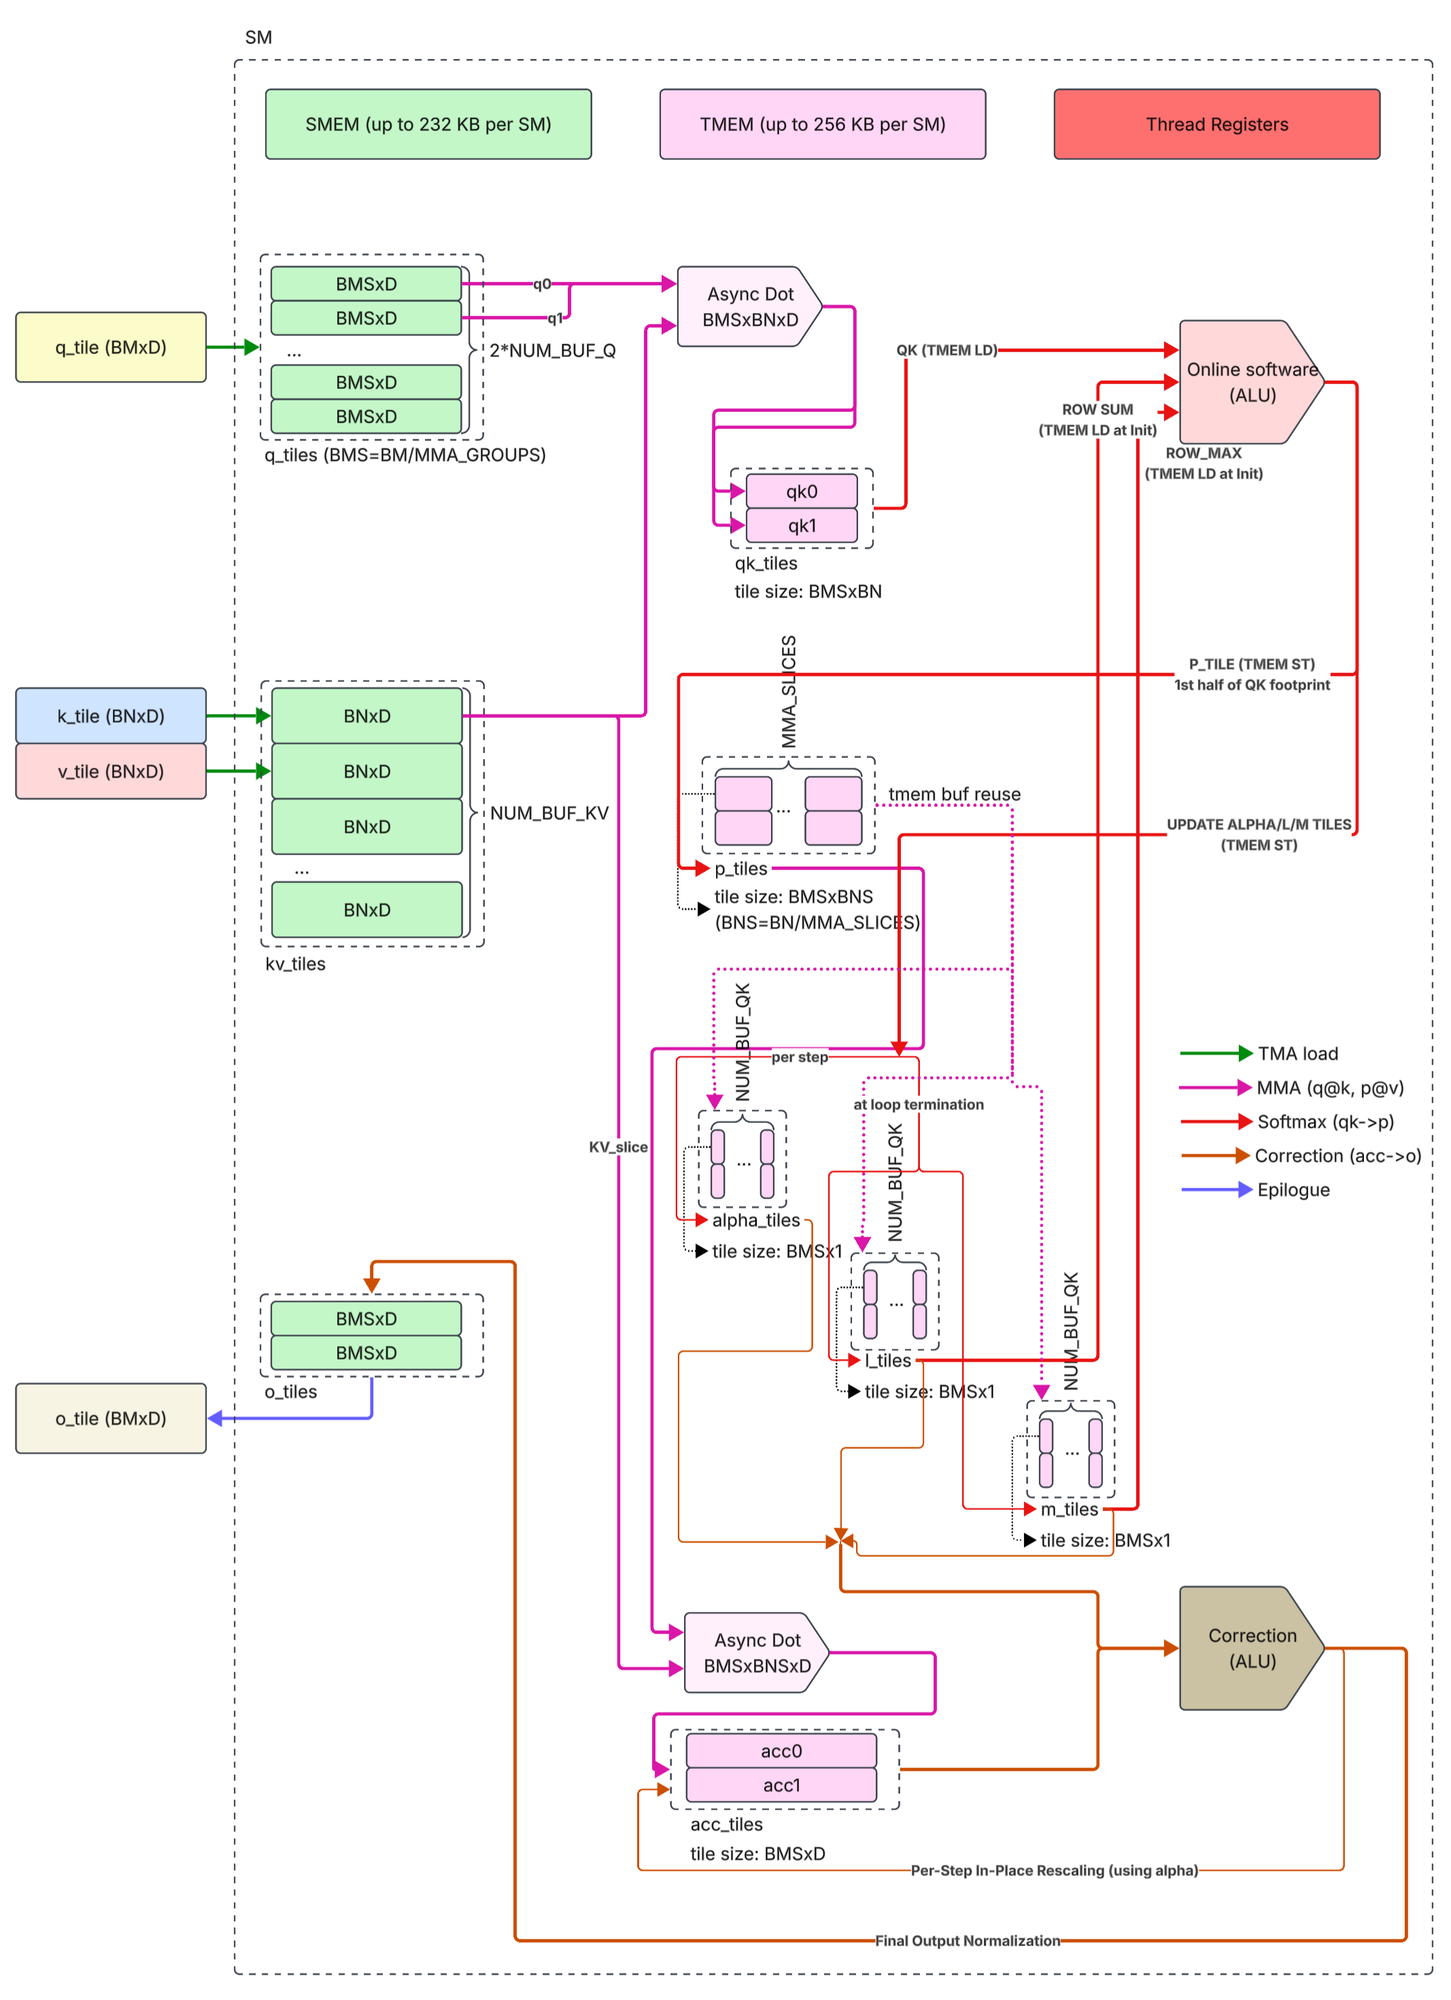
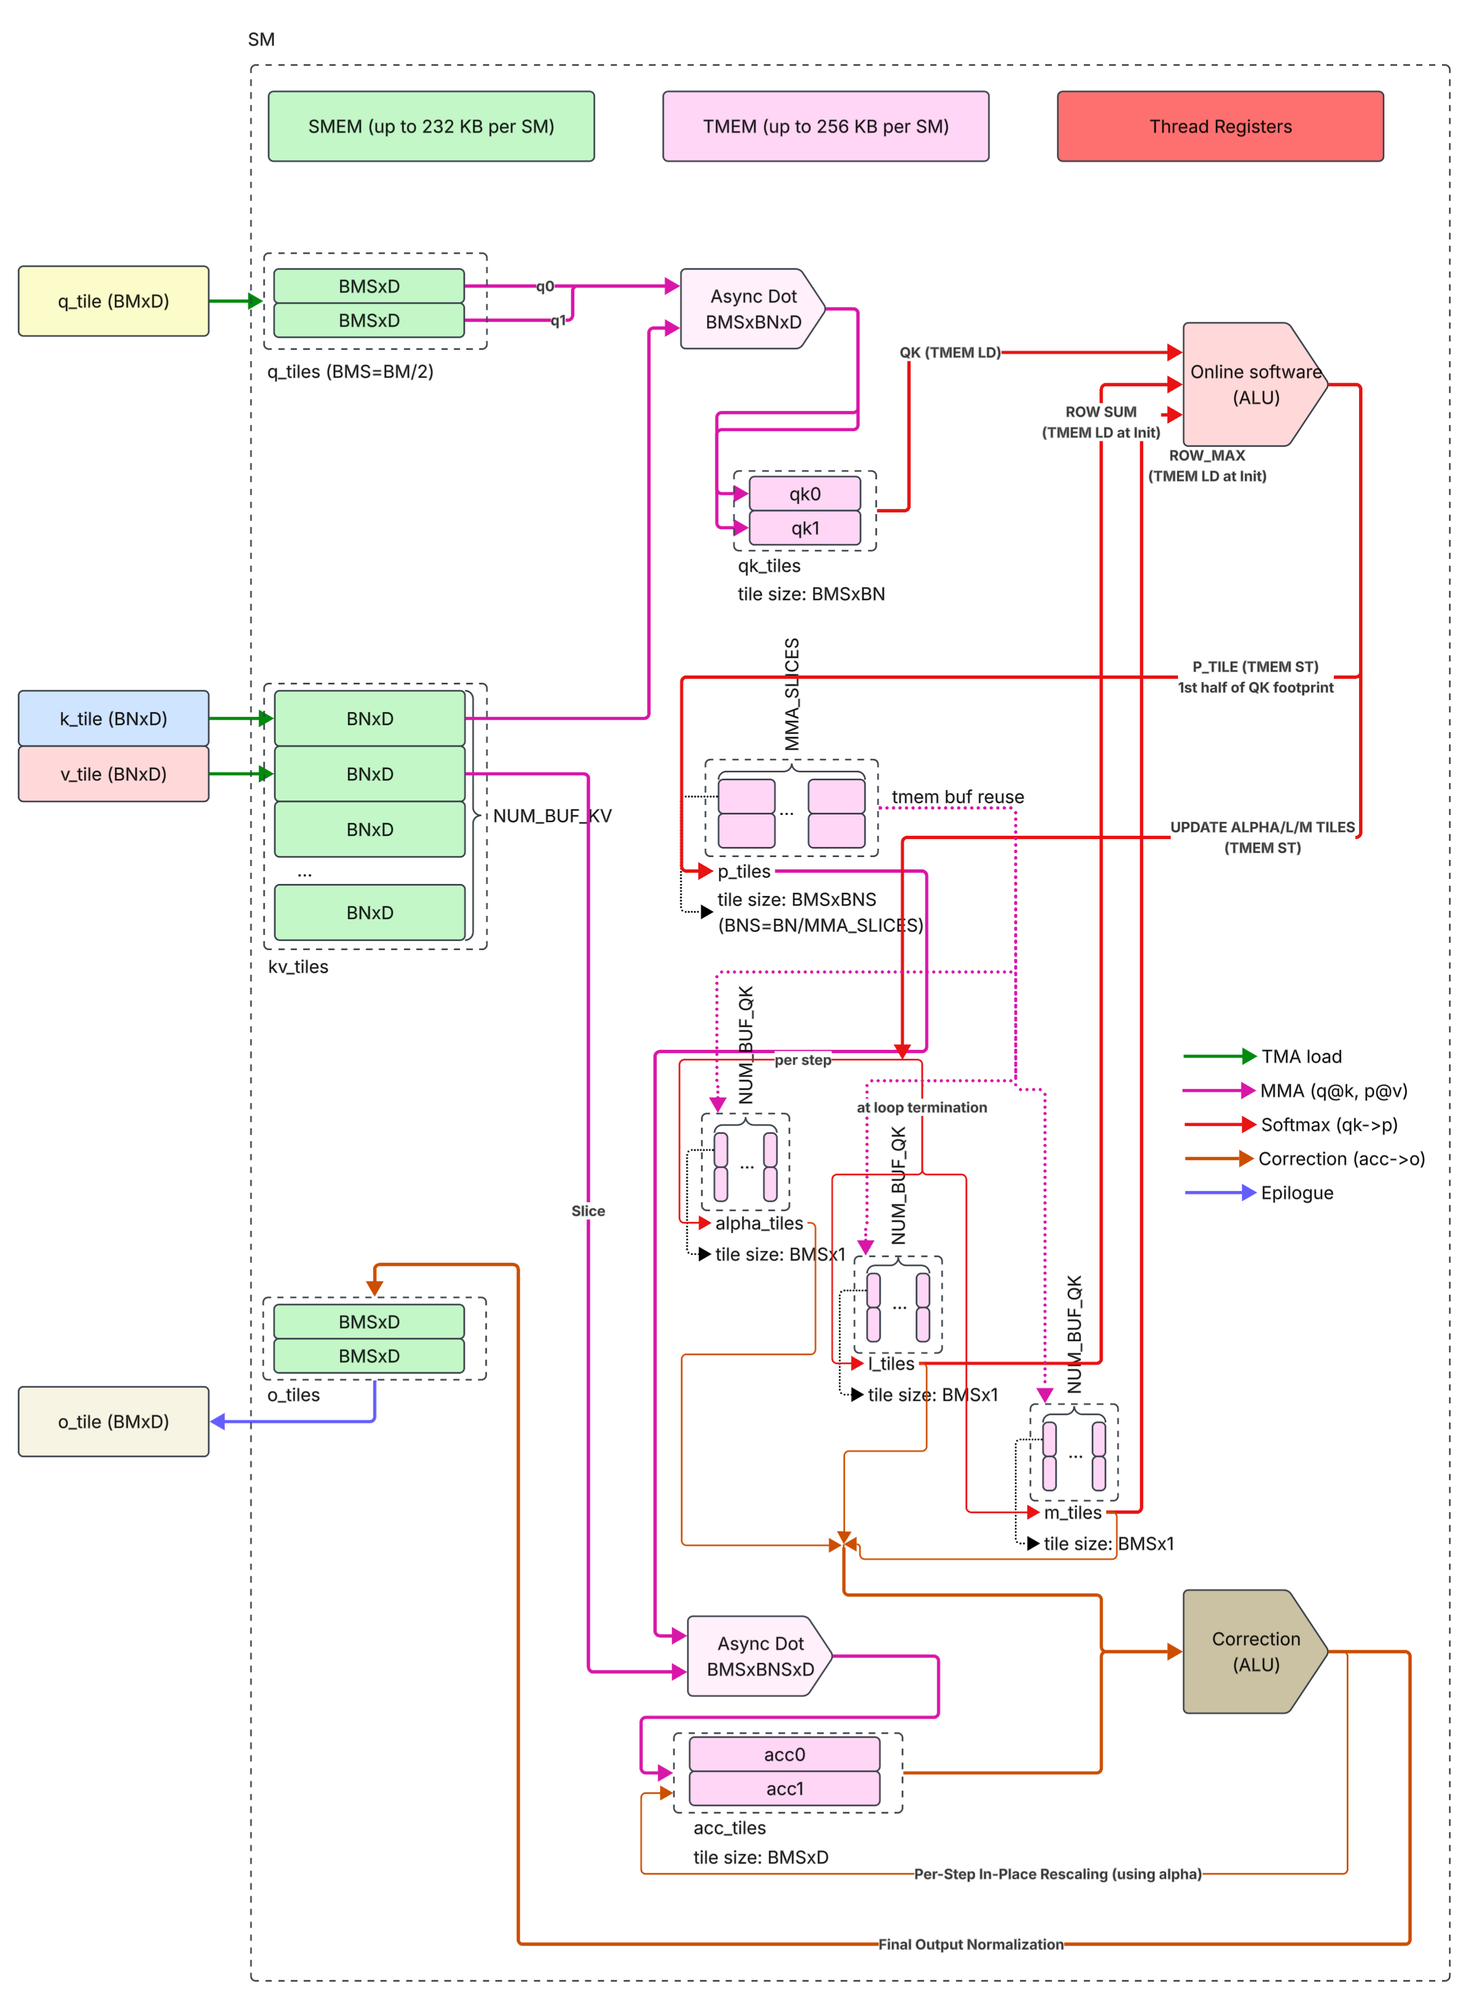
Update Blackwell FA memory diagram

diff --git a/_posts/2026-07-11-fa.md b/_posts/2026-07-11-fa.md
@@ -7,19 +7,17 @@ tags: [gpu, fa, attention]
 
 ## Disclaimer
 
-All derivations are personal; all errors are my own.
+Not a complete technical kernel tutorial; all derivations are personal; all errors are my own.
 
 ## Topic
 
-This note contains my first-principle understanding only. Not a complete technical kernel tutorial.
+Mathematically the operator calculates `softmax(Q@K^T)@V` where online softmax is actually implemented based on a math trick.
 
-`softmax(Q@K^T)@V` where online softmax is actually implemented based on a math trick.
-
-Denotions: `D` for head dim (32~128), `Z` for batch size (1~8), `H` for head number (32~128) and `N` (or N_CTX) for sequence length (~4K)
+- `D` for head dim (32~128), `Z` for batch size (1~8), `H` for head number (32~128) and `N` (or N_CTX) for sequence length (~4K)
 
 ![FA params (Z/H/N)](/assets/img/posts/fa/FA params (Z-H-N).png)
 
-1-D tiling: `BM` for Q and `BN` for K/V. And to confirm:
+1-D tiling: `BM` for Q and `BN` for K/V. So, it's obvious that:
 - q_tile: BMxD
 - k_tile: DxBN
 - qk_tile/p_tile: BMxBN
@@ -31,3 +29,7 @@ Denotions: `D` for head dim (32~128), `Z` for batch size (1~8), `H` for head num
 Warp specialization and its memory data path
 
 ![blackwell FA memory](/assets/img/posts/fa/blackwell_FA_memory.png)
+
+- Values in SMEM buffers `q_tile[0]` and `q_tile[1]` stay persistant through the output loop iteration entirely and are wiped only when processing the next `Q` macro-tile.
+- The `qk0/qk1` are data-independent spacial splits processed simultanenously on every `BN` step.
+- When `qk/acc` consumes the currnet kv tiles (a pair of `BNxD` SMEM BUF), TMA engine loads the next pair to ring buffer.
